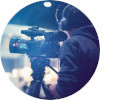
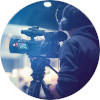
s

diff --git a/content/contact.md b/content/contact.md
@@ -2,11 +2,7 @@
 title = "Contact"
 id = "contact"
 +++
-<img src="https://benjamintelford.com/img/contact1.jpg" alt="" style="width:125px;height:100px;">
-<img src="https://benjamintelford.com/img/contact2.jpg" alt="" style="width:150px;height:100px;">
-<img src="https://benjamintelford.com/img/contact3.jpg" alt="" style="width:150px;height:100px;">
-<img src="https://benjamintelford.com/img/contact4.jpg" alt="" style="width:150px;height:100px;">
-<br>
+<img src="https://benjamintelford.com/img/contact1.jpg" alt="" style="width:100px;height:100px;">
 Are you looking to have Ben Telford Visuals involved with your next visual production? We're happy to answer any questions you may have regarding services, pricing, and bookings. Send us an email!
 <br>
 <br>
